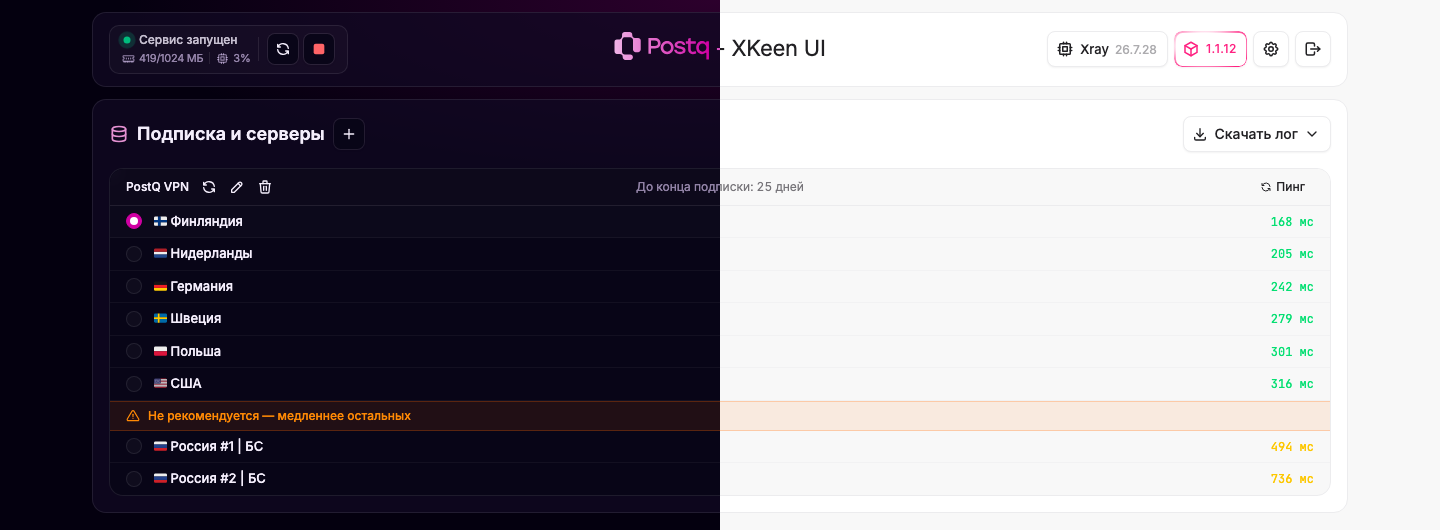
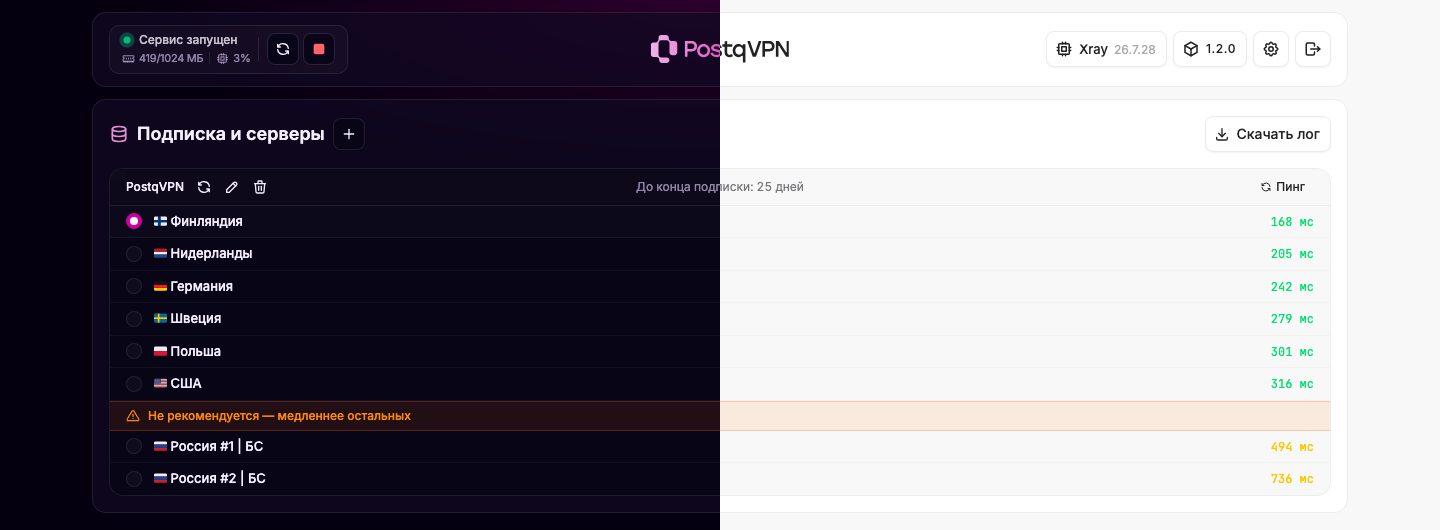
docs: rewrite README for v1.2.0, new preview
User-facing overview: what the panel is, requirements, features grouped by subscription, routing (VPN/direct/blocked table) and maintenance, zip log download. New preview with the PostqVPN logo in dark and light themes.

diff --git a/README.md b/README.md
@@ -1,64 +1,83 @@
 <div align="center">
-  <img width="96" height="96" src="frontend/src/assets/favicon.svg" alt="Postq">
+  <img width="96" height="96" src="frontend/src/assets/favicon.svg" alt="PostqVPN">
 
-<h1>Postq - XKeen UI</h1>
+<h1>PostqVPN — XKeen UI</h1>
 
 <p>
-  Лёгкая веб-панель для управления <b>XKeen</b> и ядром <b>Xray</b> на роутерах Keenetic и Netcraze
+  Веб-панель, которая подключает VPN-подписку прямо на роутере <b>Keenetic</b> или <b>Netcraze</b>
 </p>
 
-<img src="docs/preview.png" alt="Главная страница Postq - XKeen UI в тёмной и светлой теме: подписка, серверы с флагами и пингом, срок подписки, доступное обновление">
+<img src="docs/preview.png" alt="Главная страница PostqVPN в тёмной и светлой теме: подписка, серверы с флагами и пингом, срок подписки">
 
 </div>
 <br>
 
-Панель вместе с XKeen ставится на роутер одной командой и работает прямо на нём: подключает подписку
-VPN-провайдера, показывает серверы с пингом, сама настраивает маршрутизацию и следит за обновлениями.
-Отдельный сервер или компьютер не нужен.
+Панель ставится на роутер одной командой и работает прямо на нём. После установки VPN получают все устройства
+домашней сети — телефоны, компьютеры, телевизоры, приставки — без отдельных приложений на каждом.
+
+Внутри работают [XKeen](https://github.com/jameszeroX/XKeen) и ядро [Xray](https://github.com/XTLS/Xray-core),
+а панель берёт на себя всё, что раньше приходилось настраивать руками: подписку, серверы, маршрутизацию
+и обновления. Отдельный сервер или компьютер не нужен.
 
 Это форк [zxc-rv/XKeen-UI](https://github.com/zxc-rv/XKeen-UI), заточенный под Xray и подписки с учётом устройств
 (Remnawave и похожие панели провайдеров).
 
 &nbsp;
 
+## 📋 Что понадобится
+
+- Роутер **Keenetic** или **Netcraze** с USB-портом (архитектуры `aarch64`, `mipsel`, `mips`)
+- USB-накопитель от 1 ГБ
+- Подписка VPN-провайдера — ссылка вида `https://…`
+- Компьютер в той же сети на время установки
+
+&nbsp;
+
 ## ✨ Возможности
 
-**Подписка и серверы — главная страница**
+### Подписка и серверы
 
-- При первом входе достаточно вставить ссылку `https://` от провайдера: панель загрузит подписку, возьмёт её
-  название у провайдера, включит маршрутизацию, запустит XKeen и предложит выбрать сервер
-- Серверы подписки обновляются по расписанию, имена — как у провайдера, с флагами стран
-- Выбор сервера в один клик
-- Честный пинг: реальный запрос через каждый сервер (как URL-тест в v2rayN/Clash), проверяет, что VPN действительно работает, включая Hysteria2
-- Российские серверы — в конце списка под плашкой «Не рекомендуется»; серверы авто-выбора и строки-разделители провайдера скрыты
-- Сколько дней осталось до конца подписки; за 5 дней и меньше — оранжевый значок и напоминание продлить
-- Обновление, изменение и удаление подписки — кнопками рядом с её названием, «+» у заголовка добавляет новую
-- Обязательный `x-hwid` и данные устройства (`x-device-os: Router`, модель и версия ОС роутера) для панелей с лимитом устройств
+- **Подключение одной ссылкой.** При первом входе панель сама предложит вставить ссылку на подписку: загрузит
+  серверы, возьмёт название у провайдера, включит маршрутизацию, запустит VPN и предложит выбрать сервер
+- **Серверы с флагами стран** и именами как у провайдера; список обновляется сам по расписанию
+- **Выбор сервера в один клик**
+- **Честный пинг**: реальный запрос через каждый сервер, а не просто проверка порта — видно, что VPN действительно
+  работает (включая Hysteria2)
+- **Российские серверы — в конце списка** под плашкой «Не рекомендуется»; служебные серверы авто-выбора
+  и строки-разделители провайдера скрыты
+- **Срок подписки**: сколько дней осталось; за 5 дней и меньше — оранжевый значок и напоминание продлить
+- **Управление подпиской** кнопками рядом с её названием: обновить, изменить, удалить; «+» у заголовка добавляет новую
+- **Поддержка лимита устройств**: панель передаёт провайдеру постоянный идентификатор роутера (`x-hwid`),
+  модель и версию прошивки: подписки с ограничением по устройствам работают, а роутер всегда считается одним устройством
 
-**Маршрутизация**
+### Маршрутизация
 
-- Готовая маршрутизация ставится сама после добавления первой подписки; прежний `05_routing.json` сохраняется рядом как `.bak`
-- Если на роутере нет нужных геобаз, панель покажет красное предупреждение с кнопкой «Скачать геобазы и включить
+Готовые правила ставятся сами после добавления первой подписки — разбираться в конфигах Xray не нужно.
+Прежний `05_routing.json` сохраняется рядом как `.bak`.
+
+| Куда | Что |
+| --- | --- |
+| Через VPN | Заблокированные и замедленные сайты и сервисы: YouTube, Instagram, Facebook, WhatsApp, Telegram, Discord, Spotify, GitHub, Claude и другие |
+| Напрямую | Российские сайты и сервисы, банки, маркетплейсы, госуслуги, Steam, сервисы Apple, торренты |
+| Блокируется | QUIC (UDP 443) — приложения сразу переходят на обычный TCP, который стабильнее работает через VPN |
+
+- Если на роутере нет нужных геобаз, панель покажет предупреждение с кнопкой «Скачать геобазы и включить
   автообновление» — после загрузки маршрутизация включится сама, а геобазы будут обновляться раз в сутки
 
-**Логи**
+### Управление и обслуживание
 
-- Логи Xray настроены панелью: `access.log` и `error.log` в `/opt/var/log/xray/`, уровень warning, DNS-лог включён
-- Размер ограничен: файл больше 10 МБ обрезается до последних 5 МБ, накопитель не переполнится
-- «Скачать лог» на главной — `error.log` или `access.log` одним нажатием
-
-**Управление**
-
-- Запуск, остановка и перезапуск XKeen, загрузка процессора и памяти роутера
-- Обновление ядра Xray и самой панели; о новой версии панель сообщает рамкой на кнопке версии (проверка раз в час)
-- После установки или обновления панель открывается на главной странице
-- Вход по паролю; в настройках — тема (светлая, тёмная, как в системе), смена пароля и часовой пояс журнала
+- **Статус VPN** в шапке: запуск, остановка и перезапуск, загрузка процессора и памяти роутера
+- **Обновления в один клик** — и самой панели, и ядра Xray; о новой версии панель сообщает рамкой на кнопке
+  версии (проверка раз в час)
+- **«Скачать лог»** на главной — оба журнала Xray одним zip-архивом, удобно отправить в поддержку
+- **Логи не переполнят накопитель**: файл больше 10 МБ обрезается до последних 5 МБ
+- **Вход по паролю**; в настройках — светлая, тёмная или системная тема, смена пароля и часовой пояс журнала
 
 &nbsp;
 
 ## ⚡ Установка с нуля
 
-Понадобится роутер Keenetic или Netcraze, USB-накопитель и компьютер в той же сети. Если Entware на роутере
+Шесть шагов от «чистого» роутера до работающего VPN. Если Entware на роутере
 уже стоит, переходите сразу к [шагу 5](#5-установите-xkeen-и-панель).
 
 ### 1. Подготовьте USB-накопитель
